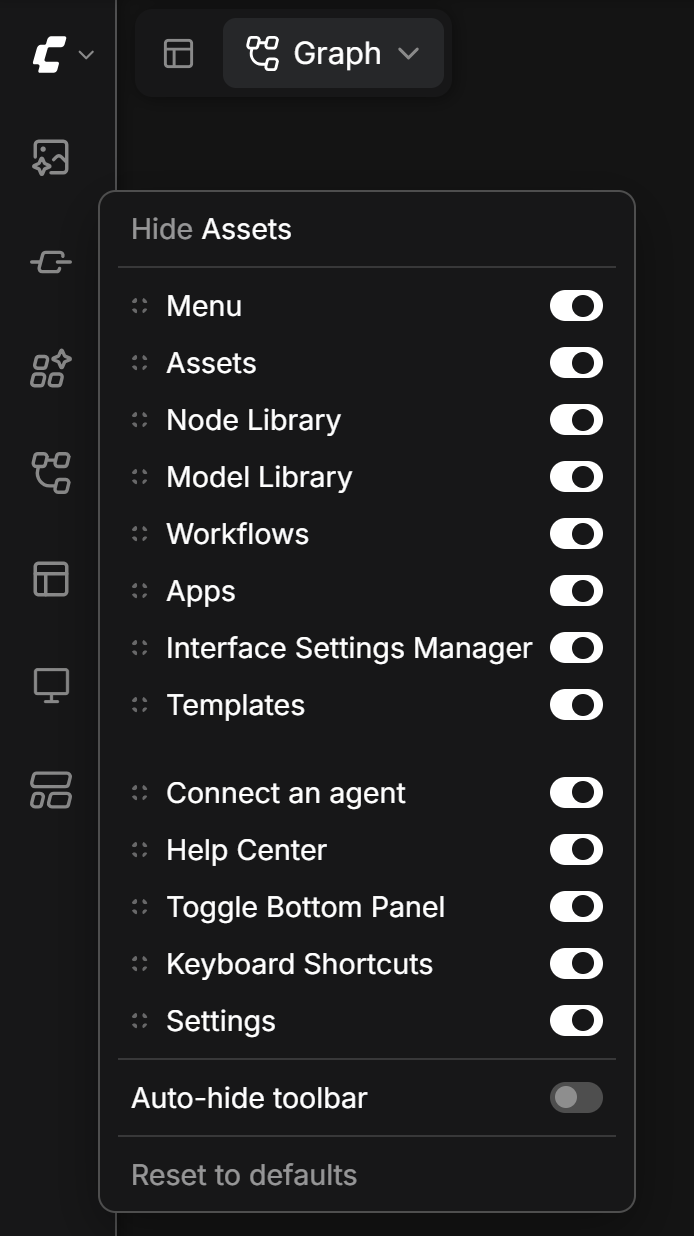
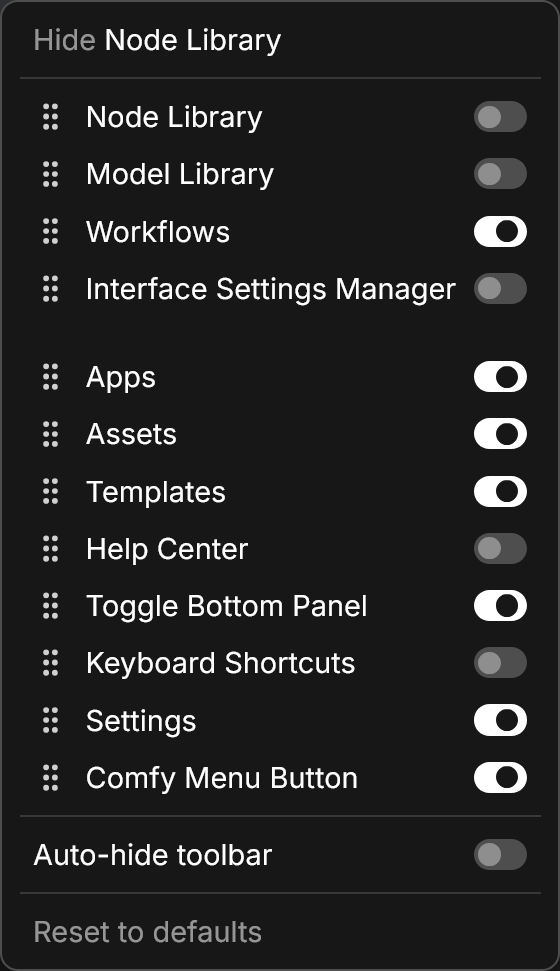
Update Sidebar Hider screenshot

Changed region(s): [[0.0, 0.0, 1.0, 1.0], [0.5768, 0.0309, 0.6071, 0.0618]]

diff --git a/README.md b/README.md
@@ -1,11 +1,11 @@
 # ComfyUI Sidebar Hider
 
-A small ComfyUI custom node that allow to hide and rearrange icons in the
-left vertical sidebar toolbar.
+A ComfyUI frontend extension for hiding and rearranging icons in the left
+sidebar toolbar.
 
 <img src="screenshot.png" width="400" alt="Right-click menu with toggle switches and drag grips">
 
-Right-click the toolbar to hide, show, or reorder icons. Reset restores defaults. Optional auto-hide reveals the toolbar at the screen edge. Click outside or press `<span>Esc</span>` to close.
+Right-click the toolbar to hide, show, or reorder icons. Reset restores defaults. Optional auto-hide reveals the toolbar at the screen edge. Click outside or press `Esc` to close.
 ## Install
 
 Copy this folder to your ComfyUI `custom_nodes` directory, for example:
